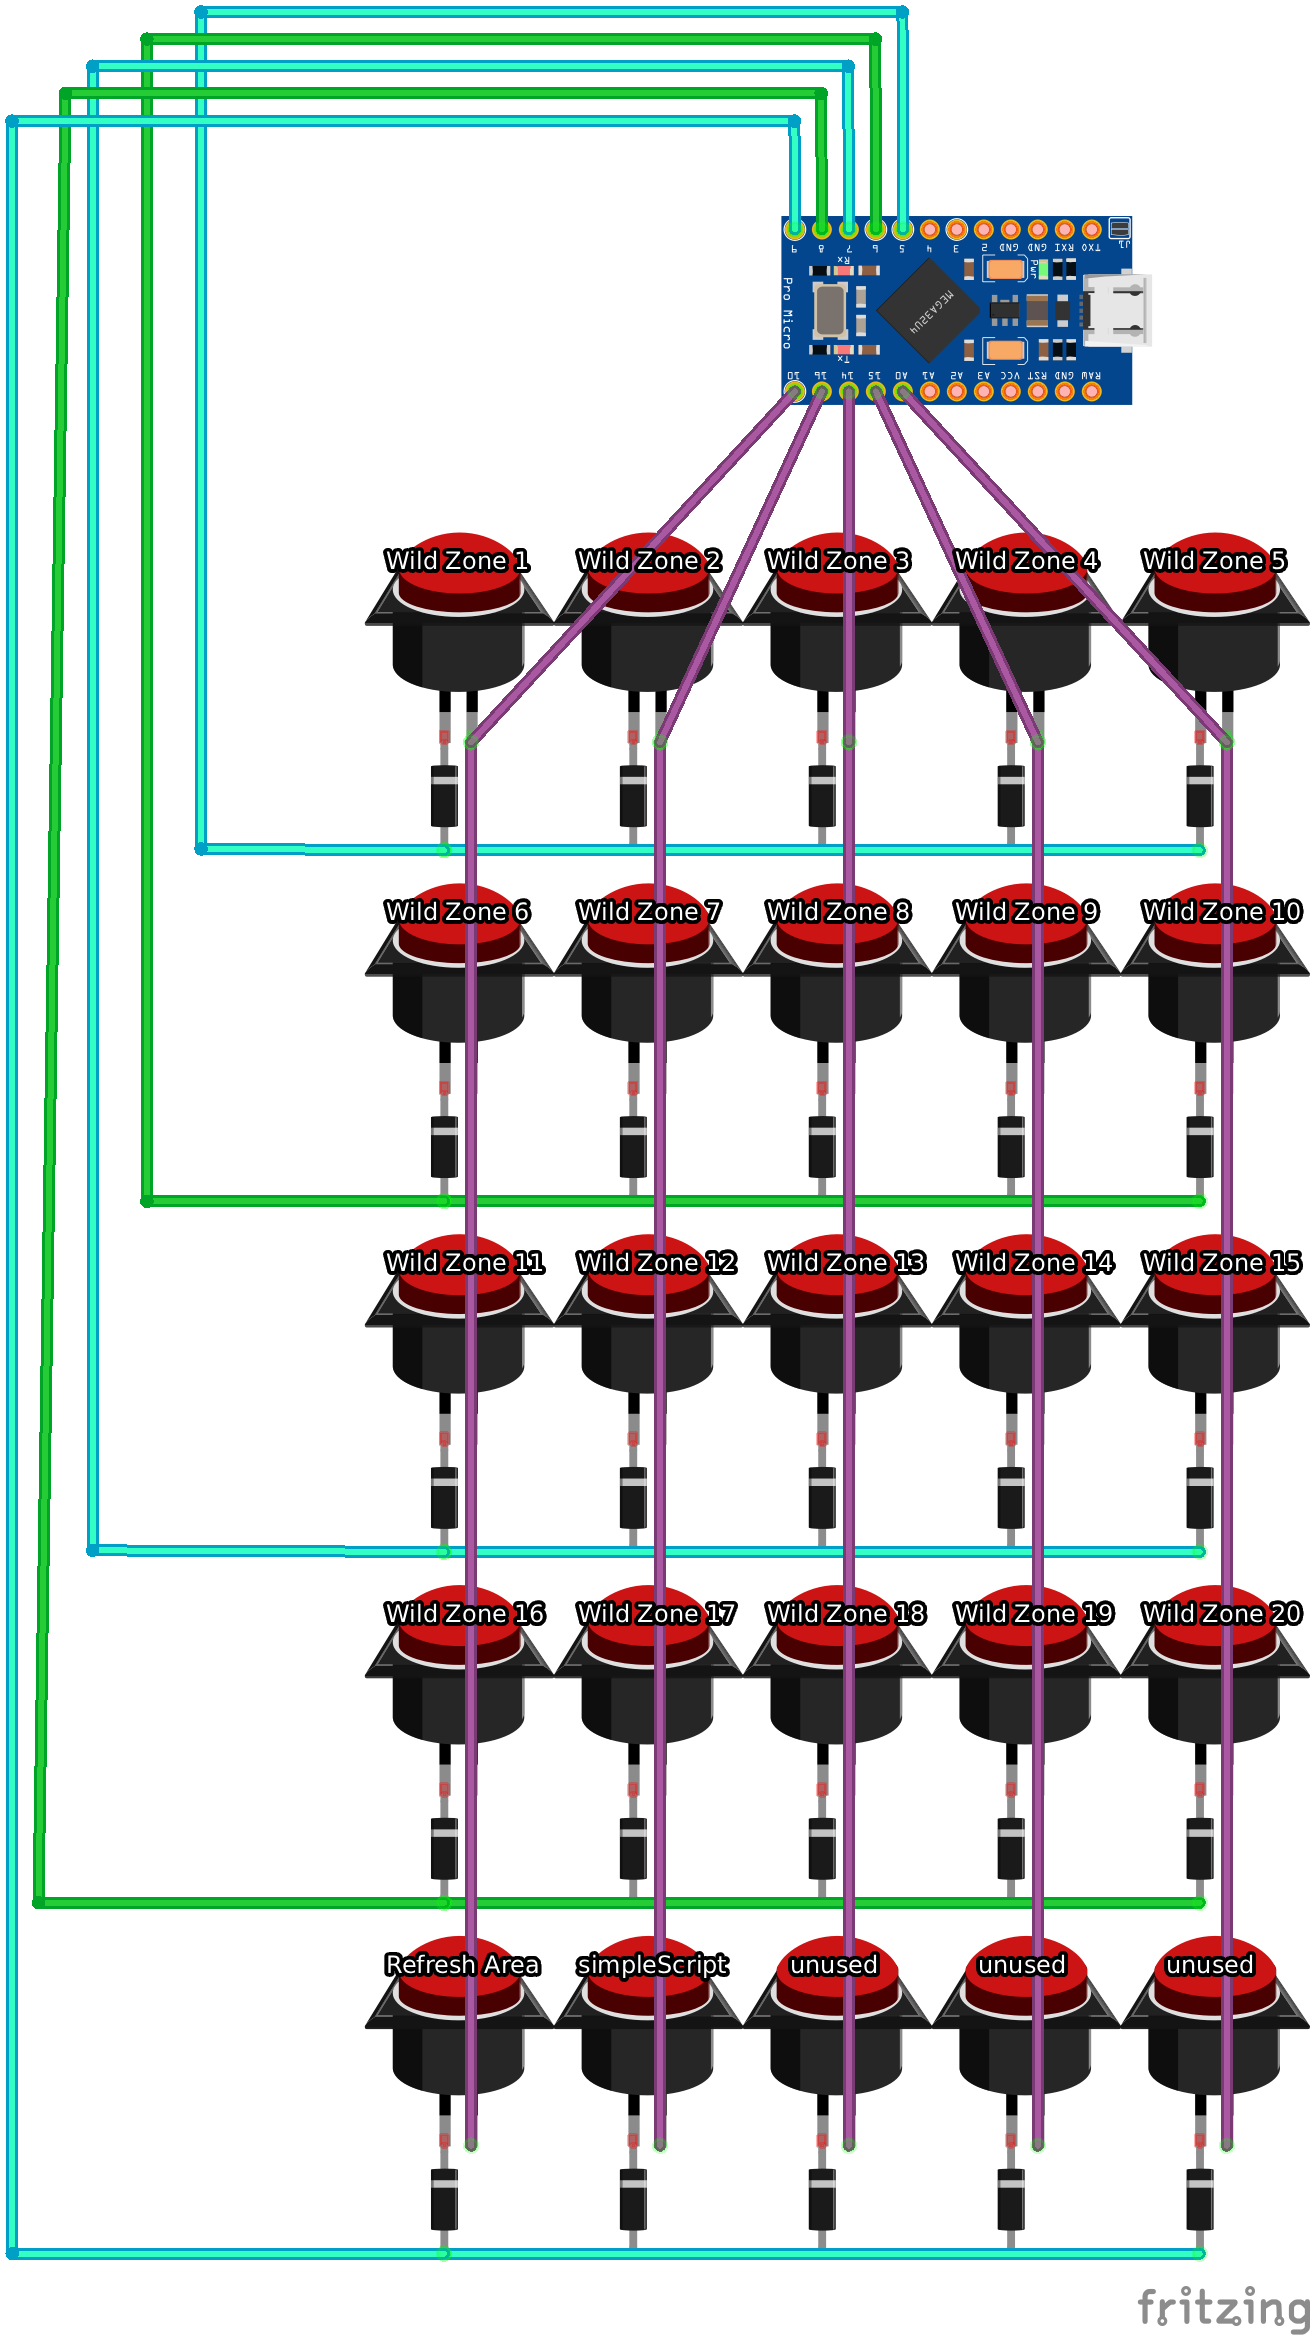
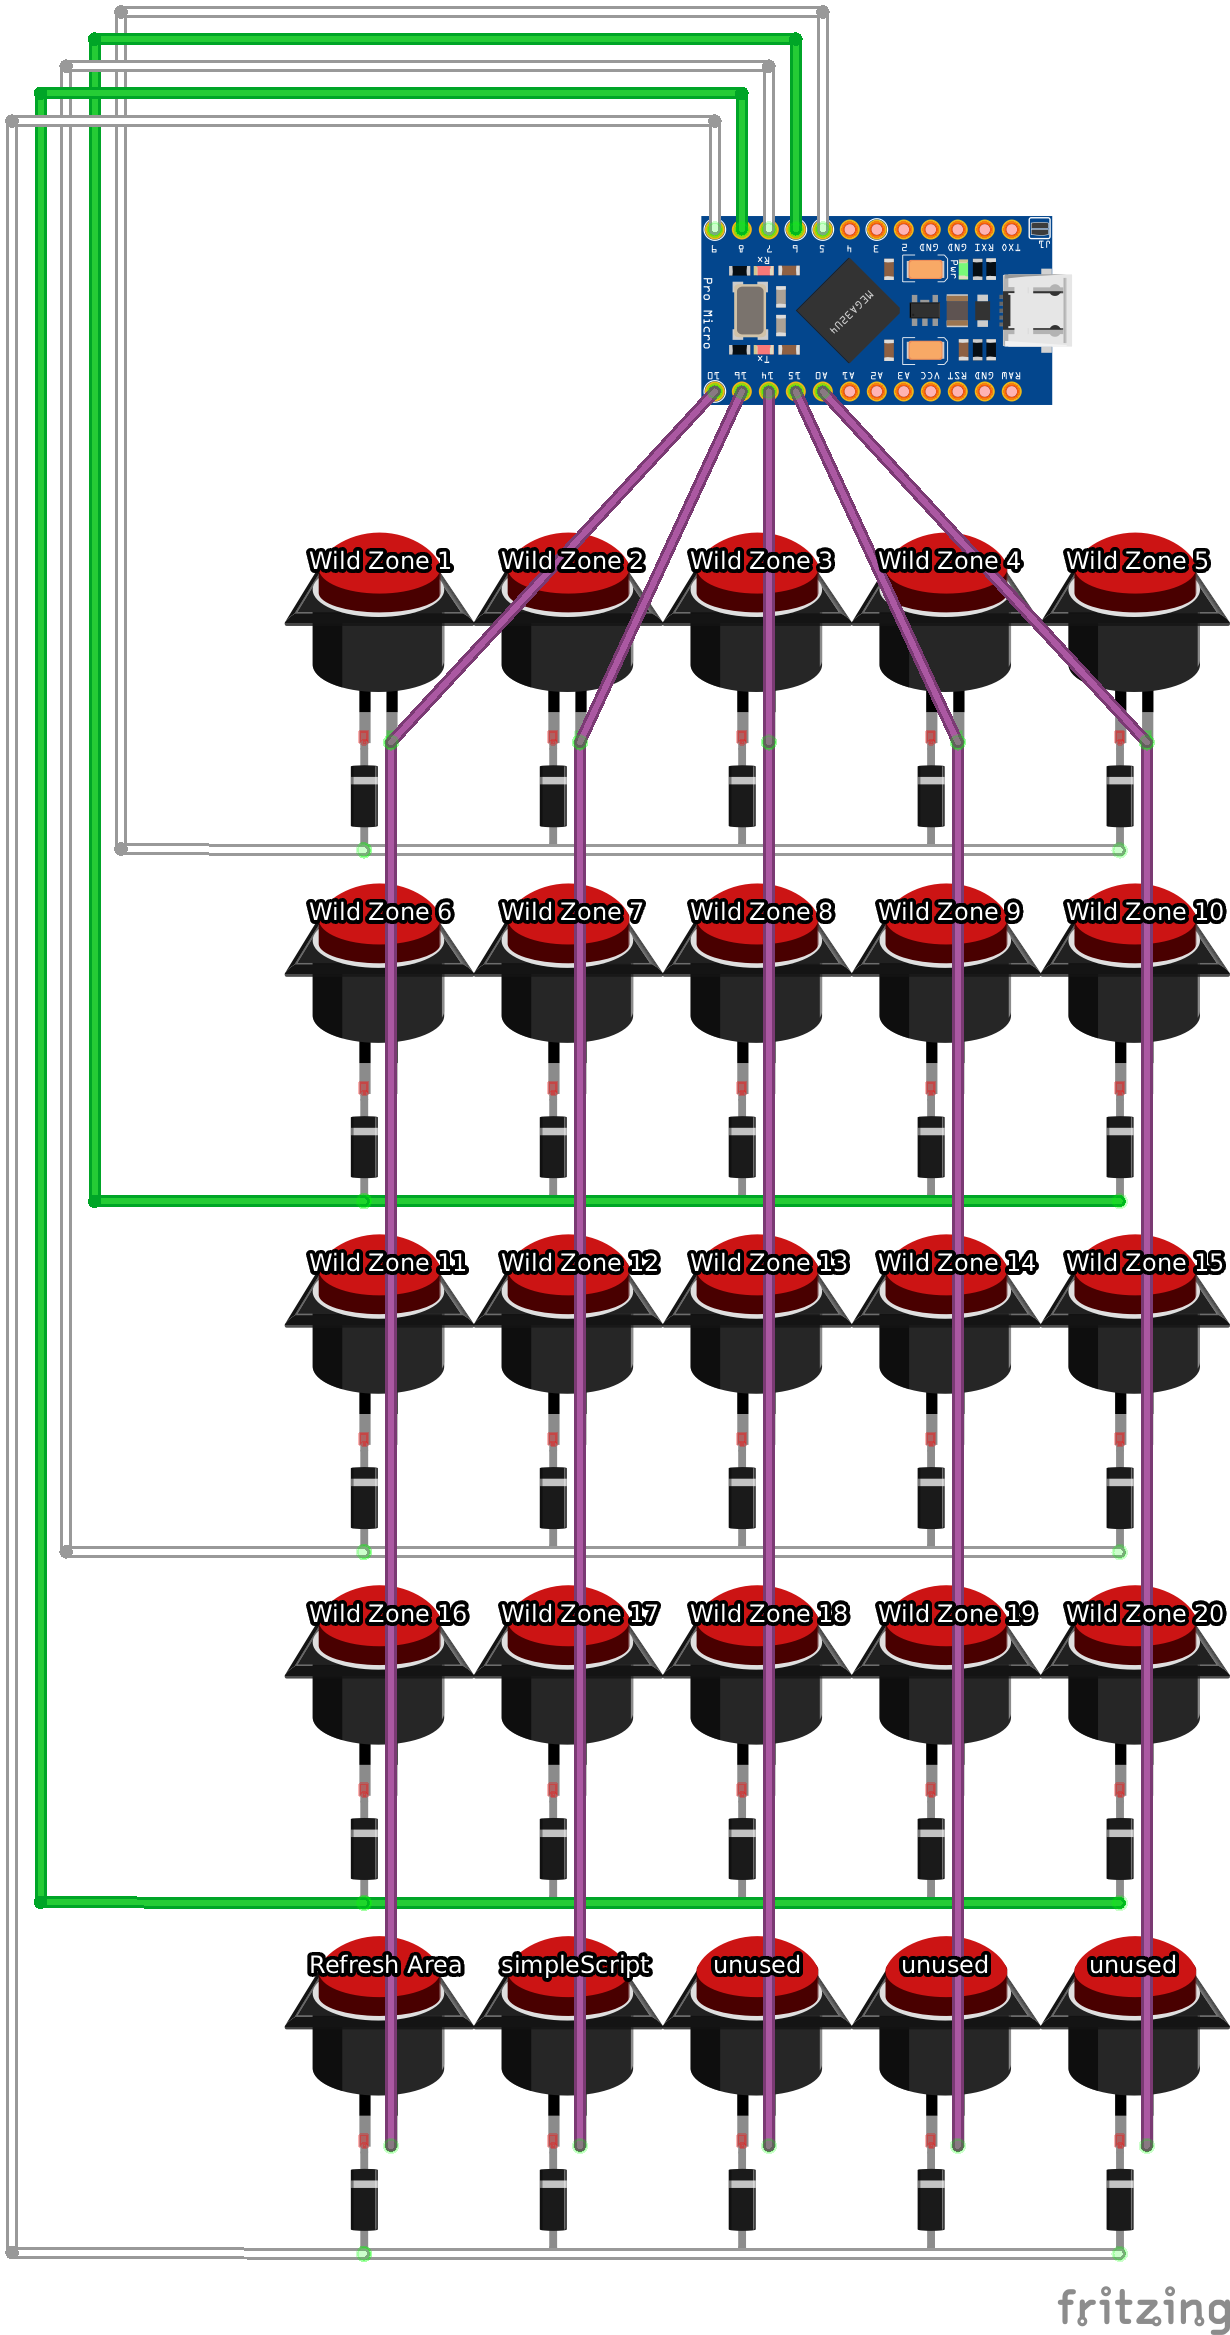
change wire color and remove background from wiring diagram

Changed region(s): [[0.0, 0.0, 1.0, 1.0]]

diff --git a/README.md b/README.md
@@ -22,7 +22,7 @@ You can use different pins or a different board, but you will have to adjust the
 1. Download the [Arduino IDE](https://www.arduino.cc/en/software/) (tested on 1.8.19 and 2.3.6)
 2. Download [Arduino LUFA](https://github.com/Palatis/Arduino-Lufa) and follow the instructions on its repository to set it up.
 3. Open `plza-shiny-tool.ino` in the Arduino IDE, select your board type and serial port.
-4. If using a Switch 1, set `switchTwo` to `false`. This will adjust loading times to accommodate for slower load speeds on Switch 1. (This is untested and theoretical--may not be needed).
+4. If using a Switch 1, set `switchTwo` to `false`. This will adjust loading times to accommodate for slower load speeds on Switch 1. (This is untested and theoretical--may not be needed). If this is set to `false`, it **will** still work with Switch 2, but will be slower.
     - **If using a button matrix, skip to step 7. Otherwise, continue.**
 5. Set `buttonMatrix` to `false`.
 6. Set `zoneId` equal to the desired Wild Zone's number, or other ID from [this table](https://github.com/zsd7200/plza-shiny-tool/blob/master/ZONE_ID.md) (coming soon).
